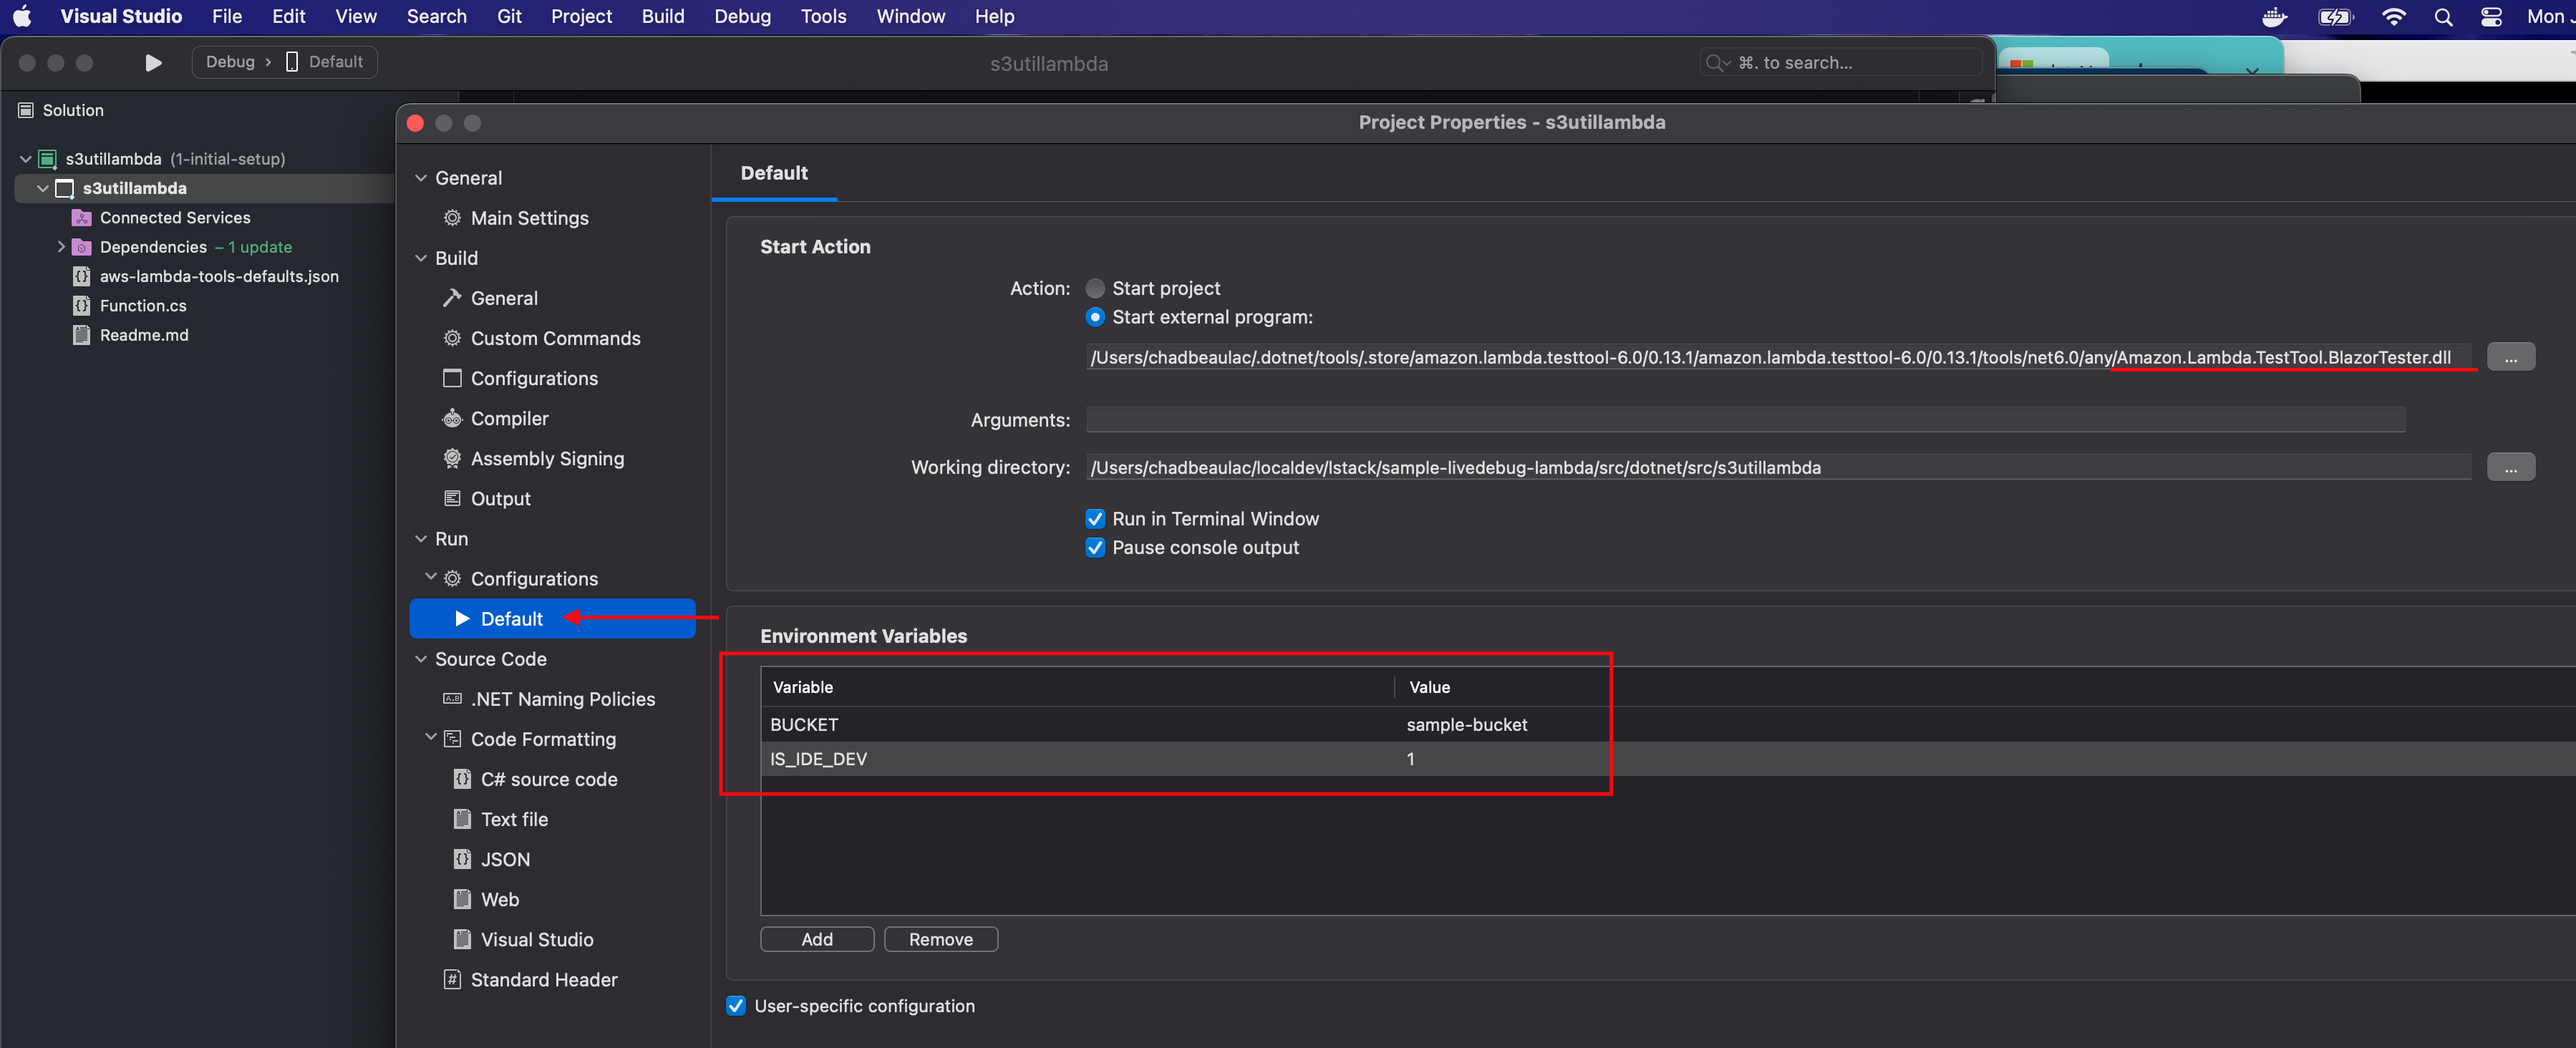
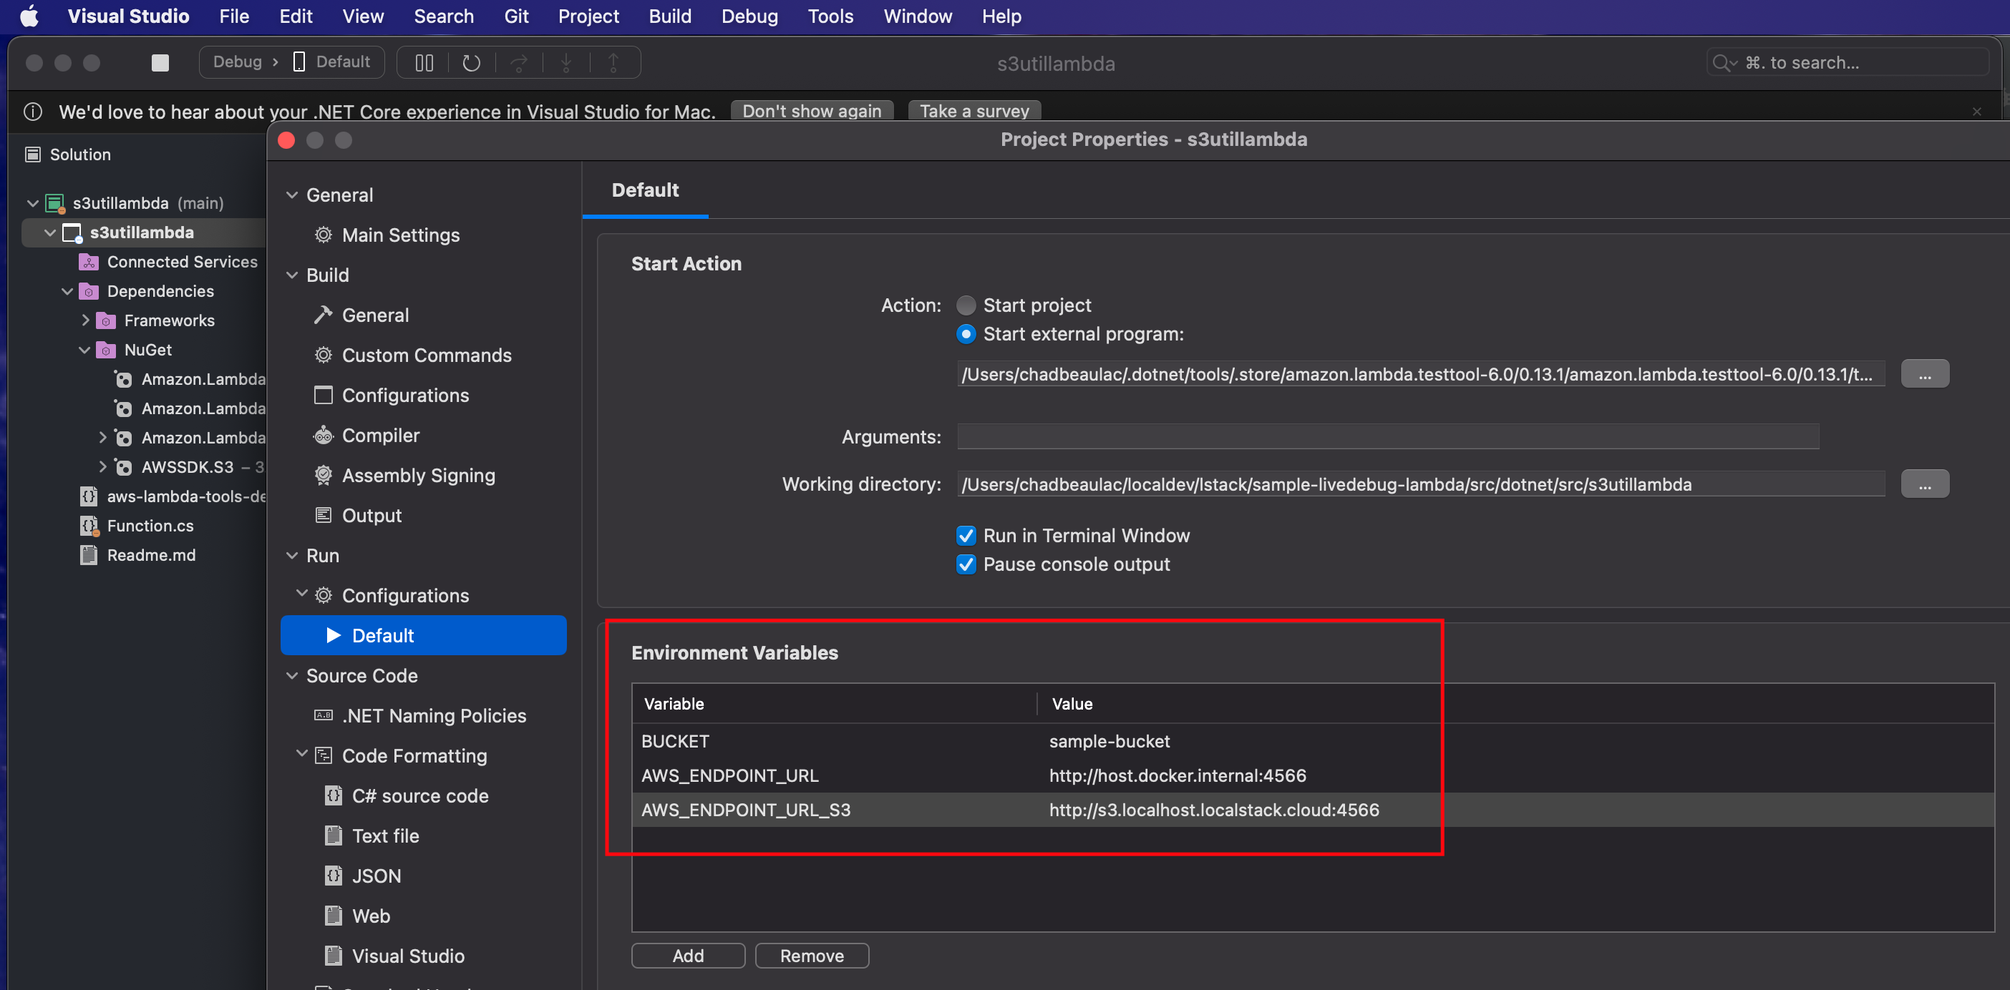
Updated code and README to use AWS_ENDPOINT_URL and AWS_ENDPOINT_URL_S3 and not use special S3Client inside Lambda

diff --git a/src/dotnet/src/s3utillambda/Function.cs b/src/dotnet/src/s3utillambda/Function.cs
@@ -13,24 +13,12 @@ namespace s3utillambda;
 public class Function
 {
 
-    private const string IsIdeDevVariableName = "IS_IDE_DEV";
     private const string BucketVariableName = "BUCKET";
 
-    private AmazonS3Client GetS3Client(string isIdeDev, ILambdaContext context) {
-        if (isIdeDev == "1")
-        {
-            context.Logger.Log($"IDE Dev");
-            AmazonS3Config config = new AmazonS3Config();
-            config.ServiceURL = "http://host.docker.internal:4566";
-            config.ForcePathStyle = true;
-
-            return new AmazonS3Client(new BasicAWSCredentials("test", "test"), config);
-        }
-        else
-        {
-            return new AmazonS3Client();
-        }
+    private AmazonS3Client GetS3Client(ILambdaContext context) {
+        return new AmazonS3Client();
     }
+
 
     /// <summary>
     /// A simple function that takes a string and does a ToUpper
@@ -42,10 +30,9 @@ public class Function
     {
 
         // Check the environment variable
-        string isIdeDev = Environment.GetEnvironmentVariable(IsIdeDevVariableName);
         string bucketName = Environment.GetEnvironmentVariable(BucketVariableName);
         context.Logger.Log($"bucketName {bucketName}\n");
-        AmazonS3Client _s3Client = GetS3Client(isIdeDev, context);
+        AmazonS3Client _s3Client = GetS3Client(context);
         context.Logger.Log($"Testing 1 2 3\n");
         var listObjectsRequest = new ListObjectsRequest
         {
